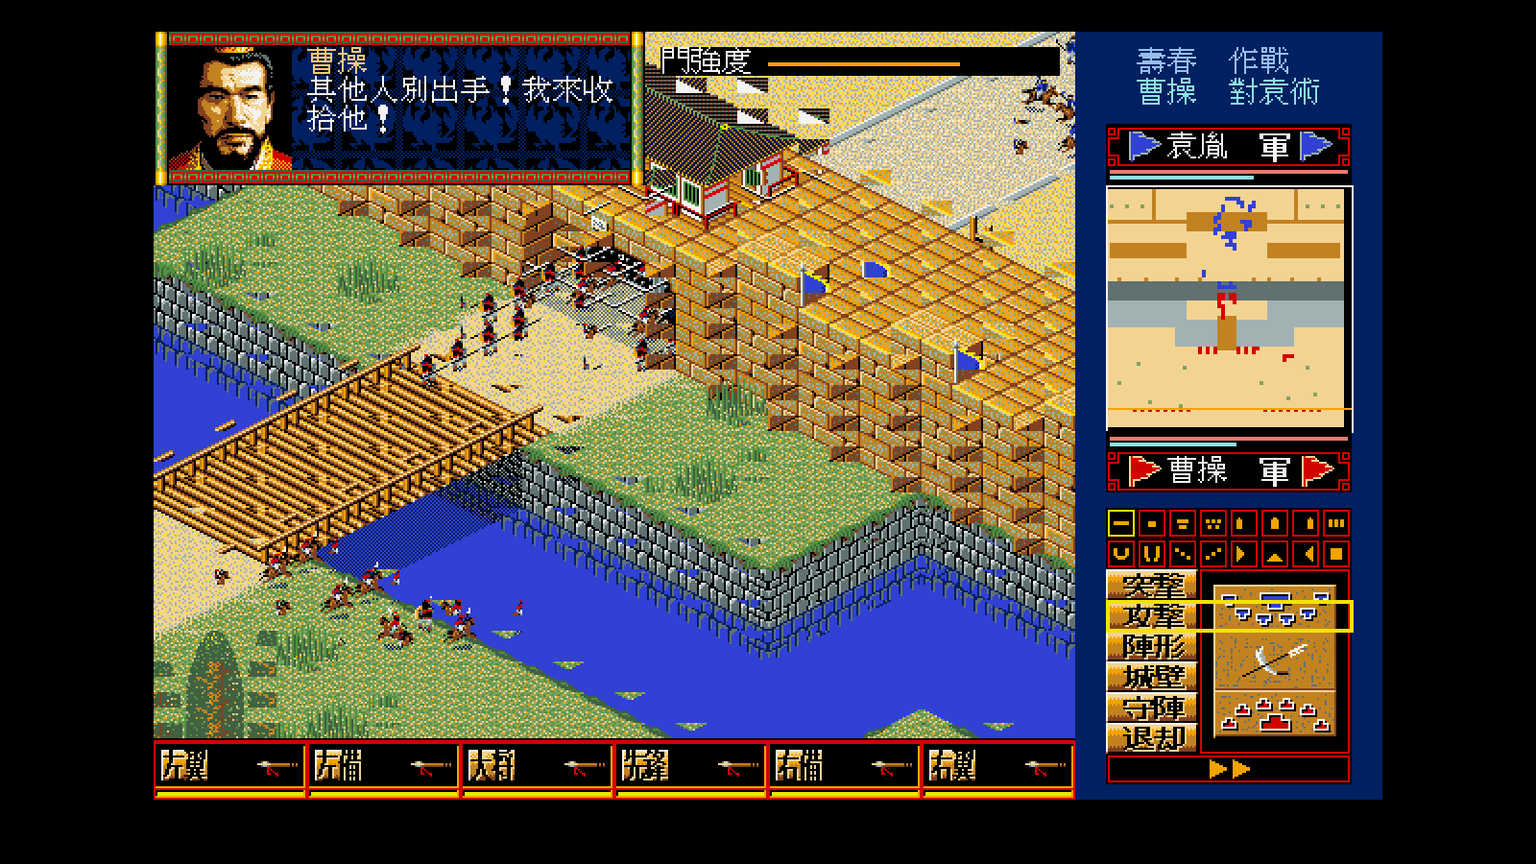
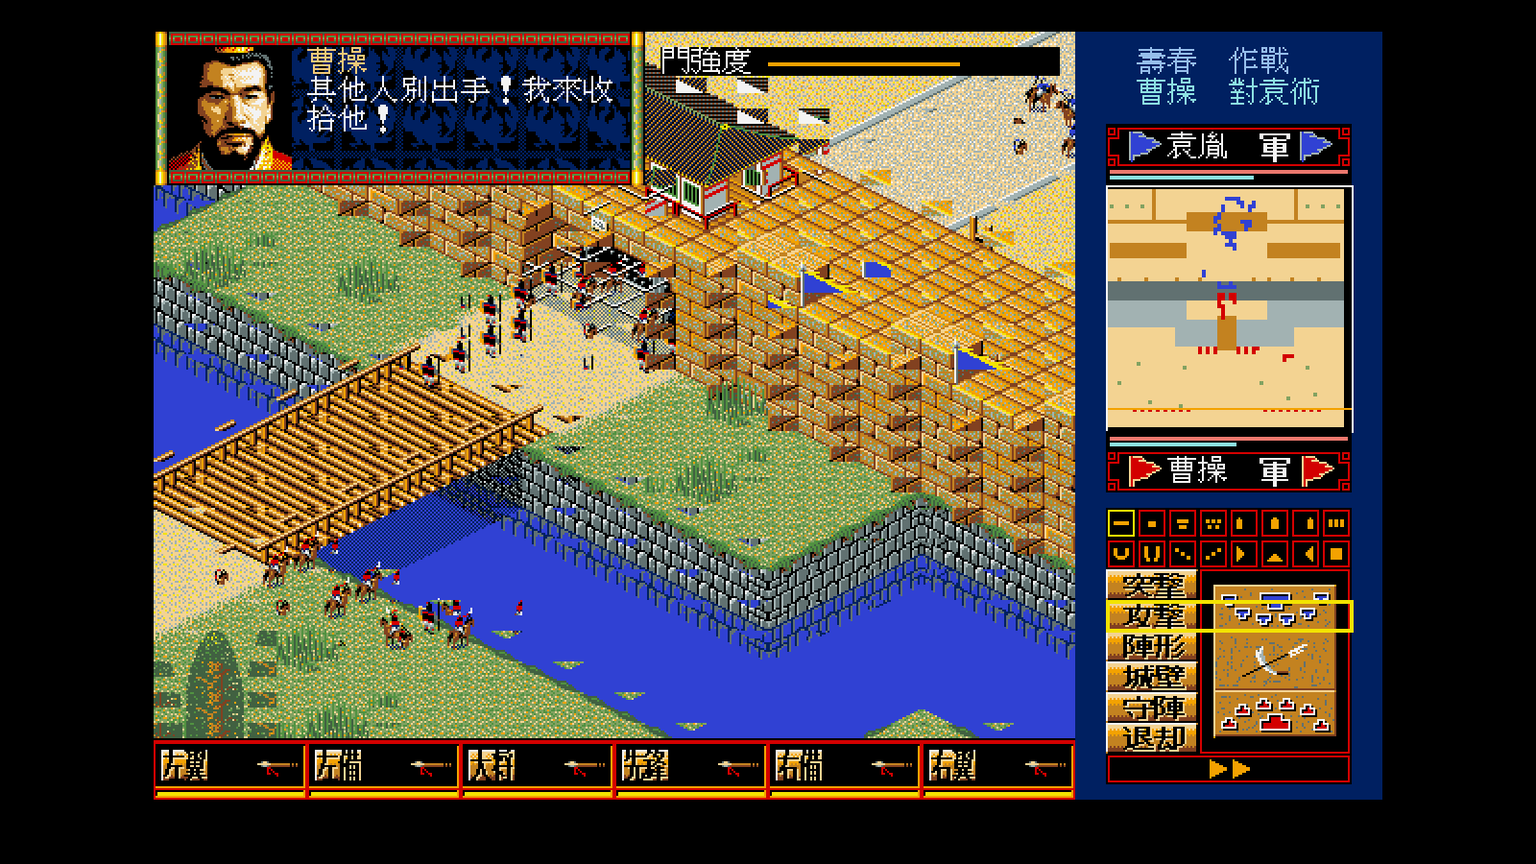
⭐⭐ 視野框是點陣——順帶解掉「機器碼寫 20、實機量到 16」那個謎
縮小地圖的視野框不是描一個矩形：`sub_196ED` 把 `ds` 設成 `cs:word_10D4C`
＝ `ICONGRF` 段 3 的 `+0x8F0`，緊接在數字字模後面的另一塊 176 byte。
`sub_19752` 每列讀 3 byte（24 px）、跑 11 列，被呼叫**五次**
（set/reset 值 0、1、2、4、8）——「先清成黑、再 OR 四個色平面」的
4 bpp 小圖，5 × 33 ＝ 165 byte。解出來是白邊 ＋ 右下黑影的立體框。

⭐ **兩個謎其實是同一個。** 把兩張實機截圖的鏡頭用新工具
`tools/find_camera.py` 反推，再量框的位置，一致差 **−2 px ＝ −4 格**；
而 4 正是 `docs/spec/52` §4 那個「`sub_12151` 寫 20、實機量到 16」的差。
⇒ **原版的鏡頭變數 `word_1988E` 比畫面上 x=0 那一欄小 4。**
`ax=14h` 讓記錄座標落在第 16 欄因此是自洽的。
（那 4 是哪一段加進去的還沒定位，留在 `docs/spec/55` §5。）

三視窗對拍現在是（`docs/playtest/38`）：

    banner   0.15%  NEAR   原版是 4月11日
    command  0.00%  PASS
    map      7.26%  FAIL   一團天候物件（狀態差）
    minimap  0.00%  PASS   ← 這一輪
    faction  0.00%  PASS

開局主畫面（四窗全關）仍然五區全 PASS。

diff --git a/internal/assets/gfx/chrome.go b/internal/assets/gfx/chrome.go
@@ -241,3 +241,58 @@ func DecodeDigit(seg []byte, index int) ([]byte, error) {
 	}
 	return out, nil
 }
+
+// 縮小地圖的視野框。規格 docs/spec/55。
+//
+// ⭐ **它是點陣不是矩形指令。** `sub_196ED` 把 `ds` 設成 `cs:word_10D4C`
+// ——`ICONGRF` 段 3 的 `+0x8F0`，緊接在數字字模後面的另一塊 176 byte。
+// `sub_19752` 每列讀 **3 byte ＝ 24 px**、跑 **11 列**，被呼叫五次
+// （set/reset 值 0、1、2、4、8），所以是「先清成黑、再 OR 四個色平面」
+// 的 4 bpp 小圖：5 × 33 ＝ 165 byte。
+const (
+	// ViewBoxOffset 是視野框點陣在 `ICONGRF` 段 3 的位移。
+	ViewBoxOffset = 0x8F0
+	// ViewBoxRows 是列數（`sub_19752` 的 `bp = 0Bh`）。
+	ViewBoxRows = 11
+	// ViewBoxBytes 是每列的 byte 數（`lodsw` ＋ 一個 byte）。
+	ViewBoxBytes = 3
+	// ViewBoxWidth 是點陣寬度。實際畫出來的圖形只用到左邊 20 px。
+	ViewBoxWidth = ViewBoxBytes * 8
+	// ViewBoxPlanes 是 `sub_196ED` 呼叫 `sub_19752` 的次數：
+	// 一張遮罩 ＋ 四個色平面。
+	ViewBoxPlanes = 5
+	viewBoxPlaneBytes = ViewBoxRows * ViewBoxBytes
+	// ViewBoxTransparent 是遮罩外的格子。
+	ViewBoxTransparent = 0xFF
+)
+
+// DecodeViewBox 解出縮小地圖的視野框，回傳 ViewBoxWidth×ViewBoxRows 的
+// 調色盤索引；遮罩外是 ViewBoxTransparent。
+func DecodeViewBox(seg []byte, off int) ([]byte, error) {
+	need := off + ViewBoxPlanes*viewBoxPlaneBytes
+	if need > len(seg) {
+		return nil, fmt.Errorf("gfx: `ICONGRF` 段 3 只有 %d byte，視野框要 %d",
+			len(seg), need)
+	}
+	row := func(plane, y int) uint32 {
+		o := off + plane*viewBoxPlaneBytes + y*ViewBoxBytes
+		return uint32(seg[o])<<16 | uint32(seg[o+1])<<8 | uint32(seg[o+2])
+	}
+	out := make([]byte, ViewBoxWidth*ViewBoxRows)
+	for y := 0; y < ViewBoxRows; y++ {
+		mask := row(0, y)
+		for x := 0; x < ViewBoxWidth; x++ {
+			shift := uint(ViewBoxWidth - 1 - x)
+			if mask>>shift&1 == 0 {
+				out[y*ViewBoxWidth+x] = ViewBoxTransparent
+				continue
+			}
+			var c byte
+			for p := 0; p < 4; p++ {
+				c |= byte(row(1+p, y)>>shift&1) << uint(p)
+			}
+			out[y*ViewBoxWidth+x] = c
+		}
+	}
+	return out, nil
+}

diff --git a/cmd/wlgame/strategyhud.go b/cmd/wlgame/strategyhud.go
@@ -49,6 +49,8 @@ const (
 	strategyMinimapH       = 160
 	strategyMinimapImageH  = 128
 	strategyMinimapLegendY = strategyMinimapY + strategyMinimapImageH
+	// ⚠ 原版的鏡頭變數比畫面上看到的那一欄小 4 格（docs/spec/55 §2）。
+	minimapCamBias = 4
 	// 圖例上兩個君主名的左緣，原版數值（docs/re/62 §4.1）。
 	strategyLegendSelfX    = 480
 	strategyLegendWatchedX = 576
@@ -698,12 +700,34 @@ func (g *game) drawMinimapMarkers(dst *ebiten.Image) {
 // 大小 ＝ 畫面格數的一半：40×23 格 → 20×12 px。
 //
 // ⚠ 原版那是一張美術（`word_10D4C`），remake 畫線——**remake 差異**。
+// drawMinimapViewBox 畫縮小地圖上的視野框。
+//
+// ⭐ **框是原版的點陣**（`ICONGRF` 段 3 `+0x8F0`，24×11 的 4 bpp 小圖），
+// 不是描一個矩形——它有白邊 ＋ 右下黑影的立體感（docs/spec/55）。
+//
+// ⚠ **X 要減 4 格。** 原版的鏡頭變數 `word_1988E` 比畫面上實際看到的
+// 那一欄小 4（docs/spec/55 §2），而 remake 的 camX 存的是**看到的那一欄**。
 func (g *game) drawMinimapViewBox(dst *ebiten.Image) {
-	x := float32(strategyMinimapX + g.camX/2)
-	y := float32(strategyMinimapY + g.camY/2)
-	w, h := float32(viewCols/2), float32((viewRows+1)/2)
-	ink := g.minimapInk[1]
-	vector.StrokeRect(dst, x, y, w, h, 1, ink, false)
+	pix, err := g.lib.ViewBox()
+	if err != nil {
+		return
+	}
+	x := strategyMinimapX + (g.camX-minimapCamBias)/2
+	y := strategyMinimapY + g.camY/2
+	season := int(g.world.Clock.Season())
+	for dy := 0; dy < gfx.ViewBoxRows; dy++ {
+		for dx := 0; dx < gfx.ViewBoxWidth; dx++ {
+			c := pix[dy*gfx.ViewBoxWidth+dx]
+			if c == gfx.ViewBoxTransparent {
+				continue
+			}
+			col, err := g.lib.PaletteColor(season, int(c))
+			if err != nil {
+				continue
+			}
+			dst.Set(x+dx, y+dy, col)
+		}
+	}
 }
 
 func (g *game) drawNaturalFactionHUD(dst *ebiten.Image, x, y int) {

diff --git a/internal/assets/gfx/chrome_test.go b/internal/assets/gfx/chrome_test.go
@@ -111,3 +111,39 @@ func TestDigitFontShape(t *testing.T) {
 		t.Errorf("負號有 %d 列墨水，預期 1", rows)
 	}
 }
+
+// TestViewBoxShape 釘住 docs/spec/55：縮小地圖的視野框是 24×11 的點陣，
+// 只用兩個顏色，而且**只有左邊 20 px 有圖**。
+func TestViewBoxShape(t *testing.T) {
+	seg := iconSegment(t, "unknown3")
+	pix, err := DecodeViewBox(seg, ViewBoxOffset)
+	if err != nil {
+		t.Fatal(err)
+	}
+	if len(pix) != ViewBoxWidth*ViewBoxRows {
+		t.Fatalf("解出 %d 點，預期 %d", len(pix), ViewBoxWidth*ViewBoxRows)
+	}
+	for i, v := range pix {
+		if v != ViewBoxTransparent && v != 0 && v != 15 {
+			t.Fatalf("第 %d 點是色 %d，框只該有色 0、色 15 與透明", i, v)
+		}
+	}
+	// 第 0 列：第 1–17 欄是白邊，這 17 px 與實機量到的白線等長。
+	white := 0
+	for x := 0; x < ViewBoxWidth; x++ {
+		if pix[x] == 15 {
+			white++
+		}
+	}
+	if white != 17 {
+		t.Errorf("第 0 列有 %d 個白點，預期 17", white)
+	}
+	// 右邊四欄整列透明——圖只有 20 px 寬。
+	for y := 0; y < ViewBoxRows; y++ {
+		for x := 20; x < ViewBoxWidth; x++ {
+			if pix[y*ViewBoxWidth+x] != ViewBoxTransparent {
+				t.Fatalf("(%d,%d) 不是透明，框應該只有 20 px 寬", x, y)
+			}
+		}
+	}
+}

diff --git a/internal/assets/library/library.go b/internal/assets/library/library.go
@@ -228,6 +228,16 @@ func (l *Library) DigitMask(index int) ([]byte, error) {
 	return gfx.DecodeDigit(l.Chrome, index)
 }
 
+// ViewBox 解出縮小地圖的視野框（`ICONGRF` 段 3 的 `+0x8F0`）。
+//
+// 回傳 24×11 的調色盤索引，`gfx.ViewBoxTransparent` ＝ 不畫。
+func (l *Library) ViewBox() ([]byte, error) {
+	if l == nil || l.Chrome == nil {
+		return nil, fmt.Errorf("ICONGRF 段 3 沒有載入")
+	}
+	return gfx.DecodeViewBox(l.Chrome, gfx.ViewBoxOffset)
+}
+
 // RenderWindowTexture 解出視窗內部的龍紋（`ICONGRF` 段 3 的最後 128 byte）。
 func (l *Library) RenderWindowTexture(bank int) (*image.RGBA, error) {
 	if l.Chrome == nil {

diff --git a/docs/re/43-open-questions.md b/docs/re/43-open-questions.md
@@ -23,8 +23,8 @@
 | 程式碼理解 | 222 | 214 | 8 | 0 |
 | 驗收 | 62 | 52 | 10 | 0 |
 | 外部資料 | 17 | 16 | 0 | 1 |
-| 其他 | 115 | 110 | 5 | 0 |
-| **合計** | **503** | 477 | 25 | 1 |
+| 其他 | 116 | 111 | 5 | 0 |
+| **合計** | **504** | 478 | 25 | 1 |
 
 ## 2.1 規則正確性（50 條）
 
@@ -413,7 +413,7 @@
 | [`playtest/37-main-screen-parity.md`](../playtest/37-main-screen-parity.md) | DOSBox 的滑鼠座標 | 視窗 640×480、遊戲 640×400 置中，而 INT 33 把**整個視窗**等比對映到遊戲畫面（送 y 要乘 1.2）。這是本機設定的性質，不是原版的 / 把 `int33 max y` 改成 400 再量一次 | 實測 |
 | [`playtest/37-main-screen-parity.md`](../playtest/37-main-screen-parity.md) | 進到大地圖之後的滑鼠座標 | **又換一套**：`sub_120D6` 把 INT 33 的範圍改成 `0..0x17FF × 0..0x101F`（6143×4127 ＝ 整個世界的像素），螢幕座標 ＝ 原始座標 − 鏡頭原點。所以同一個視窗位置在選單裡與在地圖上指到完全不同的地方 / 用 `tools/cursor_probe.py` 在… | 靜態 |
 | [`playtest/37-main-screen-parity.md`](../playtest/37-main-screen-parity.md) | 鏡頭 `sub_12151` 的水平參數 | 機器碼是 20，實機量到 16（`../spec/52` §4） / 讀 `sub_1D66A` 的畫面起點（`es=0A0C8h`＋`di=0A00h`） | 靜態 |
-| [`playtest/38-window-parity.md`](../playtest/38-window-parity.md) | 視野框 | §4：位置的算式量到了，圖形沒解 / 解 `ICONGRF` 段 3 `+0x8F0` 的 176 byte，配 `sub_19752` 的兩趟畫法 | 靜態 |
+| [`playtest/38-window-parity.md`](../playtest/38-window-parity.md) | 那 4 格從哪裡加的 | 兩處都量到 −4，機器碼裡還沒找到加它的那一行（`../spec/55` §5） / 讀 `sub_1D66A` 的畫面起點 | 靜態 |
 | [`playtest/38-window-parity.md`](../playtest/38-window-parity.md) | 天候物件 | 原版跑了 10 天才截到，remake 停在第 1 天。**這是狀態差** / 要對就得讓兩邊同一天——用存檔定位（`../spec/90` §2） | 靜態 |
 | [`playtest/38-window-parity.md`](../playtest/38-window-parity.md) | 四個視窗全開 | 這一輪只開了三個。第四個是**系統選單**，開著時原版**時間停止**，是另一種狀態 / 另外拍一張 | 靜態 |
 
@@ -439,7 +439,7 @@
 | [`reference/04-first-survey.md`](../reference/04-first-survey.md) | FM 3 聲 ＋ SSG 3 聲，埠 `0x188`／`0x18A`。 DOS/V 側未解。 | （散句） | 靜態 |
 | [`reference/05-eten-font-provenance.md`](../reference/05-eten-font-provenance.md) | `END_S13/S14/S15` 是中文版加的結局段 | S13／S14 是字型。**`END_S15` 仍未解** | 靜態 |
 
-## 2.6 其他（115 條）
+## 2.6 其他（116 條）
 
 | 出處 | 缺口 | 現況 | 裁決 |
 |---|---|---|---|
@@ -551,9 +551,10 @@
 | [`spec/52-main-screen-camera-and-banner-date.md`](../spec/52-main-screen-camera-and-banner-date.md) | `+0x0000` | 0x6C0 / — / 未解 | 靜態 |
 | [`spec/52-main-screen-camera-and-banner-date.md`](../spec/52-main-screen-camera-and-banner-date.md) | `+0x06C0` | 0x180 / `word_10D4A` / 未解 | 靜態 |
 | [`spec/52-main-screen-camera-and-banner-date.md`](../spec/52-main-screen-camera-and-banner-date.md) | `+0x08F0` | 0x0B0 / `word_10D4C` / 另一組 11 格（未解，可能是別的字重） | 靜態 |
-| [`spec/52-main-screen-camera-and-banner-date.md`](../spec/52-main-screen-camera-and-banner-date.md) | `sub_12151` 的入口 `ax` | 五個呼叫點都是 `ax=14h`（20）／`cx=0Ch`（12）。**垂直的 12 與量到的一致，水平的 20 與量到的 16 差 4。採用量到的值。** ⭐ 最像的解釋：據點的**圖案中心在記錄座標右邊四格**（`../re/67` §1，四座據點都是 +4），所以「把圖案中心放在第 20 欄」＝「把記錄座標… | 靜態 |
 | [`spec/52-main-screen-camera-and-banner-date.md`](../spec/52-main-screen-camera-and-banner-date.md) | `word_10D4C` 那一組 | 與數字字模同樣是 11 格 × 16 列，緊接在後面，用途未解 / 找誰把 `ds` 設成 `cs:word_10D4C`（`KI.EXE.asm` 只有一處） | 靜態 |
 | [`spec/54-ui-colours-from-palette.md`](../spec/54-ui-colours-from-palette.md) | 季節換色 | 五個索引在四季調色盤裡的值只有色 14 會變（`../formats/02` §4），而這五個都不是 14，所以目前用第 0 組。**若之後有視窗在別的調色盤組下畫，要改成跟著組走** | 靜態 |
+| [`spec/55-minimap-view-box.md`](../spec/55-minimap-view-box.md) | 那 4 格從哪裡加的 | 兩處都量到 −4，但機器碼裡還沒找到加它的那一行 | 靜態 |
+| [`spec/55-minimap-view-box.md`](../spec/55-minimap-view-box.md) | 剩下的 11 byte | `+0x8F0` 那一塊有 176 byte，框只用 165 | 靜態 |
 | [`spec/90-same-state-parity.md`](../spec/90-same-state-parity.md) | 各視窗**內部**的排版 | 分區的外框已由機器碼定死（§3），框內的頭像／文字列座標仍是影片估值（`docs/spec/12` §7） | 靜態 |
 | [`spec/90-same-state-parity.md`](../spec/90-same-state-parity.md) | 送點擊的座標 | DOSBox-X 的**視窗**是 640×480，遊戲的 640×400 在 y 偏移 40（`tools/parity_crop.py` 量的），而 INT 33 把整個視窗等比對映到遊戲畫面——**送 y 要乘 1.2，不是減 40**。這是本機設定的性質，把 `int33 max y` 改成 400 應該… | 實測 |
 | [`spec/90-same-state-parity.md`](../spec/90-same-state-parity.md) | 主畫面的四窗狀態 | 開局四個視窗全關（`sub_11A6E` 結尾 `mov cs:byte_198A6, 0`）。要開得先移游標再按同一點（`docs/re/47` §3.1），單純 `click` 會被當成移動吃掉 | 靜態 |

diff --git a/docs/spec/55-minimap-view-box.md b/docs/spec/55-minimap-view-box.md
@@ -1,0 +1,103 @@
+# 55 — 縮小地圖的視野框是點陣，而且解開了「差四格」
+
+**狀態：CONFORMED。** 框的點陣、尺寸與位置算式都解出來了，
+remake 畫上去之後縮小地圖那一區**逐像素 PASS**。
+⭐ **順帶解掉一個掛了兩份規格的謎**：原版的鏡頭變數比畫面上看到的
+那一欄**小 4 格**。
+
+- 日期：2026-08-17
[1 lines of base64/hex data omitted]
+- 出處：`sub_15C58`（算位置）、`sub_196ED` ＋ `sub_19752`（畫）、
+  [`../re/62`](../re/62-strategy-minimap.md) §4
+- 實機證據：`workplace/promo-live/parity-win/w3-all.png`（鏡頭 (4,0)）、
+  `workplace/promo-live/parity-main2/m3-all.png`（鏡頭 (214,10)）
+- 推論等級：**confirmed**（點陣直接從檔案解出來，位置兩個不同鏡頭各驗一次）
+
+## 1. 框是一張 24×11 的小圖
+
+`sub_196ED` 把 `ds` 設成 `cs:word_10D4C`——`ICONGRF` 段 3 的 **`+0x8F0`**，
+緊接在數字字模（`+0x840`）後面的另一塊 176 byte
+（[`52`](52-main-screen-camera-and-banner-date.md) §4 的切法）。
+
+`sub_19752` 每列讀 **3 byte ＝ 24 px**、跑 **11 列**（`bp = 0Bh`），
+被 `sub_196ED` 呼叫**五次**，set/reset 值依序是 `0, 1, 2, 4, 8`：
+
+```
+第一趟 al=0：把遮罩內的像素清成色 0
+後四趟      ：以 OR 把四個色平面疊上去（1|2|4|8 ＝ 15 ＝ 白）
+```
+
+⇒ 5 × 33 ＝ **165 byte**，一張 4 bpp 的小圖 ＋ 一張遮罩。
+
+解出來的圖形（`.` ＝ 不畫、`F` ＝ 白、`0` ＝ 黑）：
+
+```
+.FFFFFFFFFFFFFFFFF0.....
+FF000000000000000FF0....
+F00..............0F0....
+F0................F0....
+F0................F0....
+F0................F0....
+F0................F0....
+F0................F0....
+FF0..............FF0....
+0FFFFFFFFFFFFFFFFF00....
+.000000000000000000.....
+```
+
+⭐ **白邊 ＋ 右下黑影的立體框**，實際只用到左邊 20 px。
+用 `vector.StrokeRect` 描一個矩形永遠對不上。
+
+## 2. ⭐ 鏡頭變數比看到的那一欄小 4
+
+`sub_15C58` 算位置：
+
+```
+dx = ds:988Eh (camX) >> 1 + 1B8h   ; 440
+bx = ds:9890h (camY) >> 1 + 28h    ;  40
+```
+
+把兩張實機截圖的鏡頭用 `tools/find_camera.py`（從畫面認圖塊、回地圖找落點）
+反推，再量框的位置：
+
+| 畫面上看到的鏡頭 | 框的白邊左上角 | `440 + camX/2` | 差 |
+|---|---|---:|---:|
+| (4, 0) | (441, 40) | 442 | **−2 px** |
+| (214, 10) | (546, 45) | 547 | **−2 px** |
+
+點陣的白邊從第 1 欄開始，所以圖的原點是 440 與 545 ——
+也就是 `440 + (camX − 4)/2`。
+
+⭐ **−2 px ＝ −4 格，而 4 正是 [`52`](52-main-screen-camera-and-banner-date.md) §4
+那個「機器碼寫 20、實機量到 16」的差。** 兩件事是同一件：
+**`word_1988E` 存的值比畫面上 x=0 那一欄小 4**，
+所以 `sub_12151(ax=20)` 讓記錄座標落在第 16 欄是自洽的。
+
+⚠ 4 是**哪一段加進去的**還沒定位（`sub_1D615` 拿 `di = camX` 直接索引，
+`sub_1D66A` 的 `es=0A0C8h` ＋ `di=0A00h` 那組畫面起點還沒讀懂）。
+**兩處量到的差一致**，所以 remake 用「camX 存看到的那一欄、
+畫縮小地圖時減 4」處理。
+
+Y 沒有這個問題：兩張都是 `40 + camY/2`，一格不差。
+
+## 3. remake 實作
+
+| 項目 | 位置 |
+|---|---|
+| 解點陣 | `gfx.DecodeViewBox` → `Library.ViewBox` |
+| 畫 | `cmd/wlgame` 的 `drawMinimapViewBox`，位置 `(minimapX + (camX−4)/2, minimapY + camY/2)` |
+| 那個 4 | `minimapCamBias` |
+
+## 4. 驗證
+
+| 方式 | 內容 |
+|---|---|
+| 單元測試 | `TestViewBoxShape`：24×11、只有色 0／15 與透明，第 0 列的白邊 17 px |
+| 對拍 ✅ | [`../playtest/38`](../playtest/38-window-parity.md)：縮小地圖那一區 **0.00% PASS** |
+
+## 5. 未解
+
+| 項目 | 現況 |
+|---|---|
+| 那 4 格從哪裡加的 | 兩處都量到 −4，但機器碼裡還沒找到加它的那一行 |
+| 剩下的 11 byte | `+0x8F0` 那一塊有 176 byte，框只用 165 |

diff --git a/CONTEXT.md b/CONTEXT.md
@@ -411,9 +411,8 @@ M6 的版面幾何對得上原版，但畫的內容還有缺。**
 
 | # | 工作 | 為什麼現在做 | 下手點 |
 |---:|---|---|---|
-| **1** | **縮小地圖的視野框** | 三個視窗開著的對拍只剩它（[`docs/playtest/38`](docs/playtest/38-window-parity.md) §4）。位置的算式量到了：左上角 `(440 + camX/2 − 1, 40 + camY/2)`、白框 17×10；remake 現在畫 21×13 的純白矩形 | 框是**點陣不是矩形指令**：`sub_196ED` 把 `ds` 設成 `cs:word_10D4C` ＝ `ICONGRF` 段 3 `+0x8F0` 的 176 byte（與數字字模同大小、緊接在後），逐 byte 以 OR 疊進 VRAM。解那 176 byte ＋ `sub_19752` 的兩趟畫法 |
-| **2** | **戰場的逐格對拍** | 同一個問題的戰術版，`docs/playtest/31` §1 記著「沒做過」。管線現在整條都有了，缺的是讓兩邊開同一張戰場 | `-open-siege -siege-node N` 對 remake，原版用存檔定位（`docs/spec/90` §2）|
-| **3** | **五個開關圖示的來源段** | 主畫面右上角那五個小圖示 remake 是自繪的，原版素材的段與位移沒定位 | `docs/re/48` 的顯示清單裡找貼圖那幾筆的來源位移 |
+| **1** | **戰場的逐格對拍** | 同一個問題的戰術版，`docs/playtest/31` §1 記著「沒做過」。管線現在整條都有了，缺的是讓兩邊開同一張戰場 | `-open-siege -siege-node N` 對 remake，原版用存檔定位（`docs/spec/90` §2）|
+| **2** | **五個開關圖示的來源段** | 主畫面右上角那五個小圖示 remake 是自繪的，原版素材的段與位移沒定位 | `docs/re/48` 的顯示清單裡找貼圖那幾筆的來源位移 |
 
 > ⚠ **量到的贏推的。** 這一輪有一個沒解開的矛盾：`sub_12151` 的五個呼叫點
 > 都寫 `ax=14h`（20），而實機兩例都指向 16。**採用量到的 16**，
@@ -430,8 +429,12 @@ M6 的版面幾何對得上原版，但畫的內容還有缺。**
 - ~~原版主畫面點不到視窗開關~~：點得到。進到大地圖之後 INT 33 的範圍變成
   整個世界，先把游標推到左上角讓座標歸零就算得出來（`docs/playtest/38` §1）。
   **`click` 之後要再 `press`**——移動 ＋ 按下不算點擊。
-- ~~命令列與自勢力情報兩區~~：**逐像素 PASS**（`docs/playtest/38`）。
-  順帶把五個介面顏色改成跟著 `GAMEPAL.BRG` 走（`docs/spec/54`）。
+- ~~命令列、自勢力情報、縮小地圖三區~~：**逐像素 PASS**（`docs/playtest/38`）。
+  順帶把五個介面顏色改成跟著 `GAMEPAL.BRG` 走（`docs/spec/54`）、
+  視野框改用原版點陣（`docs/spec/55`）。
+- ~~「機器碼寫 20、實機量到 16」那個謎~~：**鏡頭變數比畫面上 x=0 那一欄小 4**
+  （`docs/spec/55` §2，兩個不同鏡頭各量一次都是 −4）。剩下的是
+  「那 4 是哪一段加的」，掛在 `docs/spec/55` §5。
 
 - ~~攻方大多數不前進~~：六個指令都能指揮部隊動作並有單測
   （`docs/spec/37` §4）。**AI 自己撞不進城是設計**——說明書第 11 章

diff --git a/docs/INDEX.md b/docs/INDEX.md
@@ -68,7 +68,7 @@
 | [`docs/playtest/35-advise-verdict-screens.md`](playtest/35-advise-verdict-screens.md) | 35 — 進言的五項與「請求君主出陣」的定案畫面 | 通過。 | 2026-08-17 |
 | [`docs/playtest/36-window-texture.md`](playtest/36-window-texture.md) | 36 — 視窗底紋畫上去了 | 通過。 | 2026-08-17 |
 | [`docs/playtest/37-main-screen-parity.md`](playtest/37-main-screen-parity.md) | 37 — 開局主畫面的逐區對拍：第一次真的對原版跑 | ⭐⭐ 五區全部 PASS。開局主畫面的 640×400 逐像素等於原版。 | 2026-08-17 |
-| [`docs/playtest/38-window-parity.md`](playtest/38-window-parity.md) | 38 — 三個視窗開著時的對拍：命令列與自勢力情報逐像素相同 | 通過。 | 2026-08-17 |
+| [`docs/playtest/38-window-parity.md`](playtest/38-window-parity.md) | 38 — 三個視窗開著時的對拍：三個視窗區逐像素相同 | 通過。 | 2026-08-17 |
 | [`docs/promo/README.md`](promo/README.md) | 推廣片產出紀錄 | remake 推廣片、代表幀「經典再現」比較片與 DOS/V／remake 實機動態比較片均已產出並完成媒體規格驗證… | 2026-08-12 |
 | [`docs/promo/classic-revival.md`](promo/classic-revival.md) | 「經典再現」推廣片 | 已產出研究／推廣用 60 秒比較片；不把代表幀比較宣稱為同狀態逐像素 parity。 | 2026-08-11 |
 | [`docs/promo/dosv-adlib-and-tactical-review.md`](promo/dosv-adlib-and-tactical-review.md) | 推廣片原版 AdLib 與戰術骨架審查 | 原版音軌來源與影片縮放鏈已修正；戰術固定骨架的 16 px viewport 偏差已修正。完整同狀態戰術 parit… | 2026-08-12 |
@@ -189,6 +189,7 @@
 | [`docs/spec/52-main-screen-camera-and-banner-date.md`](spec/52-main-screen-camera-and-banner-date.md) | 52 — 開局的鏡頭位置與橫幅日期 | CONFORMED。 | 2026-08-17 |
 | [`docs/spec/53-city-tile-by-ownership.md`](spec/53-city-tile-by-ownership.md) | 53 — 據點中心的圖塊跟著歸屬換，首都再疊一張 | CONFORMED。 | 2026-08-17 |
 | [`docs/spec/54-ui-colours-from-palette.md`](spec/54-ui-colours-from-palette.md) | 54 — 介面顏色一律查調色盤，命令列的底是黑的 | CONFORMED。 | 2026-08-17 |
+| [`docs/spec/55-minimap-view-box.md`](spec/55-minimap-view-box.md) | 55 — 縮小地圖的視野框是點陣，而且解開了「差四格」 | CONFORMED。 | 2026-08-17 |
 | [`docs/spec/90-same-state-parity.md`](spec/90-same-state-parity.md) | 90 — 同狀態畫面對拍 | CONFORMED。管線接起來了，也對原版跑過一輪 （[../playtest/37](../playtest/37… | 2026-08-15 |
 
 ## 斷言（欄位／常數 → 推論等級 → 出處）

diff --git a/docs/spec/52-main-screen-camera-and-banner-date.md b/docs/spec/52-main-screen-camera-and-banner-date.md
@@ -94,5 +94,5 @@ camY = clamp(首都Y − 12, 0, 233)      233 = 256 − 23
 
 | 項目 | 現況 | 下手點 |
 |---|---|---|
-| `sub_12151` 的入口 `ax` | 五個呼叫點都是 `ax=14h`（20）／`cx=0Ch`（12）。**垂直的 12 與量到的一致，水平的 20 與量到的 16 差 4。採用量到的值。** ⭐ 最像的解釋：據點的**圖案中心在記錄座標右邊四格**（[`../re/67`](../re/67-city-emblem-on-strategy-map.md) §1，四座據點都是 +4），所以「把圖案中心放在第 20 欄」＝「把記錄座標放在第 16 欄」。**但機器碼裡的 `mov dx, [bx+848h]` 沒有那個 +4**，所以這只是候選解釋 | 找 +4 從哪裡來：要嘛據點表 `+0x08` 的執行期值與檔案不同，要嘛畫面起點（`sub_1D66A` 的 `es=0A0C8h` ＋ `di=0A00h`）有偏移 |
+| `sub_12151` 的入口 `ax` | ✅ **解了**：`word_1988E`（鏡頭變數）比畫面上 x=0 那一欄**小 4**，所以 `ax=14h`（20）讓記錄座標落在第 16 欄是自洽的。同一個 4 也出現在縮小地圖的視野框上（[`55`](55-minimap-view-box.md) §2，兩個不同鏡頭各量一次都是 −2 px ＝ −4 格）。⚠ **那 4 是哪一段加進去的還沒定位** | 讀 `sub_1D66A` 的畫面起點（`es=0A0C8h` ＋ `di=0A00h`）|
 | `word_10D4C` 那一組 | 與數字字模同樣是 11 格 × 16 列，緊接在後面，用途未解 | 找誰把 `ds` 設成 `cs:word_10D4C`（`KI.EXE.asm` 只有一處）|
